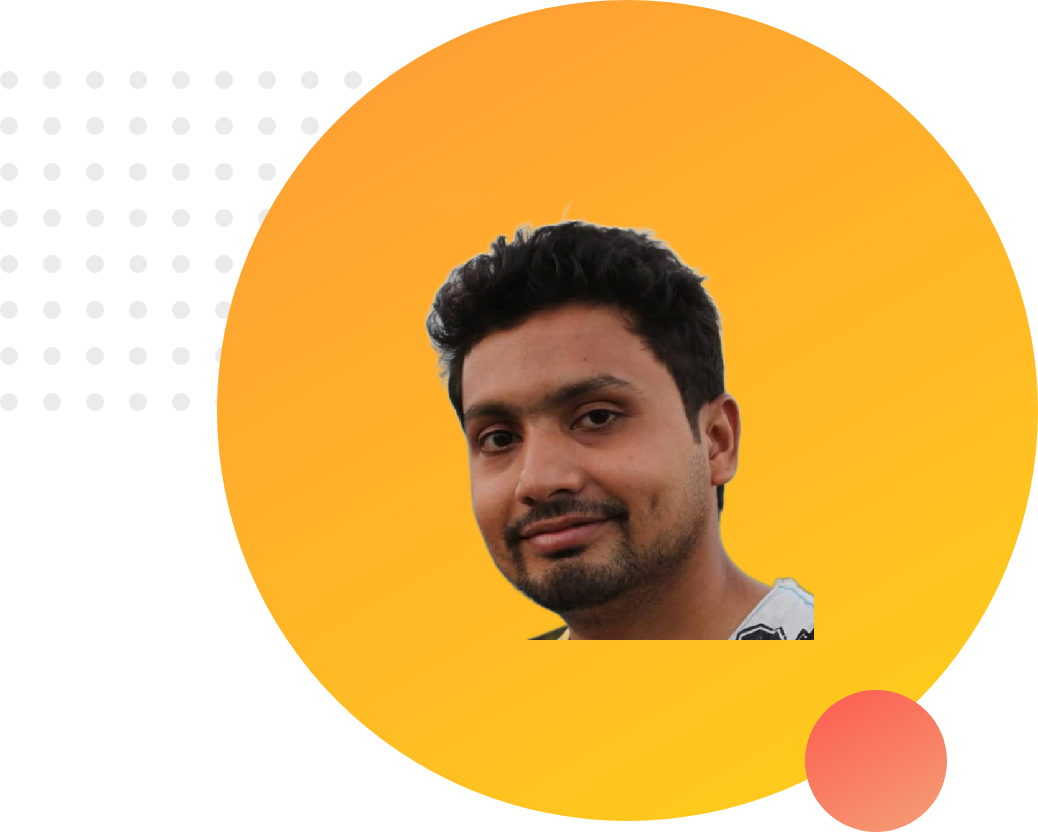
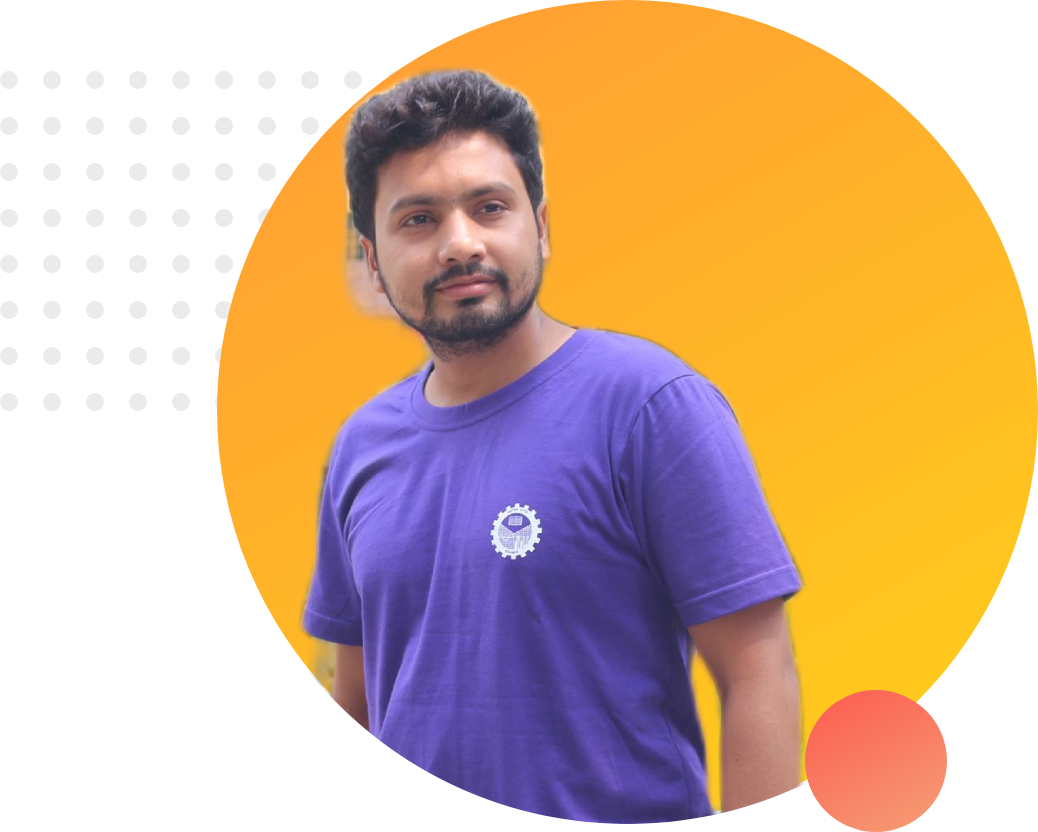
update portfolio partially

diff --git a/index.html b/index.html
@@ -11,9 +11,41 @@
         </style>
 </head>
 <body>
-    <h1>Welcome To</h1>
-    <h1><span class="name-highlight">Abdur Rahman</span> Website</h1>
-    <h3>World Class Professional Web Developer</h3>
-    <p>klhdfkjnkjfdkndfs hdfkjnkjfdklhdfkjnkjfdkndfs hdfkjnkjfdklhdfkjnkjfdkndfs hdfkjnkjfdklhdfkjnkjfdkndfs hdfkjnkjfdklhdfkjnkjfdkndfs hdfkjnkjfdklhdfkjnkjfdkndfs hdfkjnkjfdklhdfkjnkjfdkndfs hdfkjnkjfdklhdfkjnkjfdkndfs hdfkjnkjfd</p>
+    <section class="top-banner">
+        <div class="half-width">
+            <h1>Welcome To</h1>
+            <h1><span class="orange-highlight">Abdur Rahman</span> Website</h1>
+            <h3>Classy & Professional Web Developer</h3>
+            <p>You are reading this line means you already know my name. I'm skilled in html, CSS, Javascript. I developed numerous website those are currently used in verious real world application. Now currently I develop frontend.</p>
+            <a class="link-button" href="https://www.linkedin.com/in/abdurrahman-ie" target="_blank">Hire Me</a>
+        </div>
+        <div class="half-width">
+            <img src="images/profile1.png" alt="profile 1">
+        </div>
+    </section>
+    <section class="dream-area">
+        <div class="half-width">
+            <img src="images/profile2.png" alt="profile 1">
+        </div>
+        <div class="half-width">
+            <h2>Big Dream</h2>
+            <h3>Become World's No.1 Developer</h3>
+            <p>You are reading this line means you already know my name. I'm skilled in html, CSS, Javascript. I developed numerous website those are currently used in verious real world application. Now currently I develop frontend.</p>
+            <a class="link-button" href="https://www.linkedin.com/in/abdurrahman-ie" target="_blank">Download Resume</a>
+        </div>
+    </section>
+    <section class="experience-area">
+        <h2>Experiences</h2>
+        <div class="half-width">
+            <h2>Full Stack Web Dev</h2>
+            <h3 class="orange-highlight">2021 - Present | Pro Level Web Dev</h3>
+            <p>I developed numerous website those are currently used in verious real world application. Now currently I develop frontend.</p>
+        </div>
+        <div class="half-width">
+            <h2>Baby Web Developer</h2>
+            <h3 class="orange-highlight">2020 - 2021 | Programming Hero Learner</h3>
+            <p>I developed numerous website those are currently used in verious real world application. Now currently I develop frontend.</p>
+        </div>
+    </section>
 </body>
 </html>

diff --git a/style.css b/style.css
@@ -1,9 +1,46 @@
 body{
     font-family: 'Poppins', sans-serif;
+    margin: 0;
 }
 h1{
     font-size: 50px;
 }
-.name-highlight{
+h2{
+    font-size: 40px;
+}
+p{
+    color: dimgray;
+}
+.orange-highlight{
     color: orange;
+}
+.half-width{
+    width: 40%;
+    float: left;
+    margin-left: 5%;
+    padding-left: 2%;
+}
+.half-width img{
+    width: 100%;
+}
+.top-banner{
+    background-image: url("images/top-banner.png");
+    background-repeat: no-repeat;
+}
+section{
+    height: 500px;
+    padding-bottom: 150px;
+}
+.link-button{
+    text-decoration: none;
+    background-image: linear-gradient(45deg, lightSalmon, tomato);
+    padding: 10px 20px;
+    border-radius: 5px;
+    color: white;
+    font-weight: bold;
+}
+.dream-area{
+    background-image: url("images/dream-bg.png");
+    background-repeat: no-repeat;
+    background-position: right;
 }
